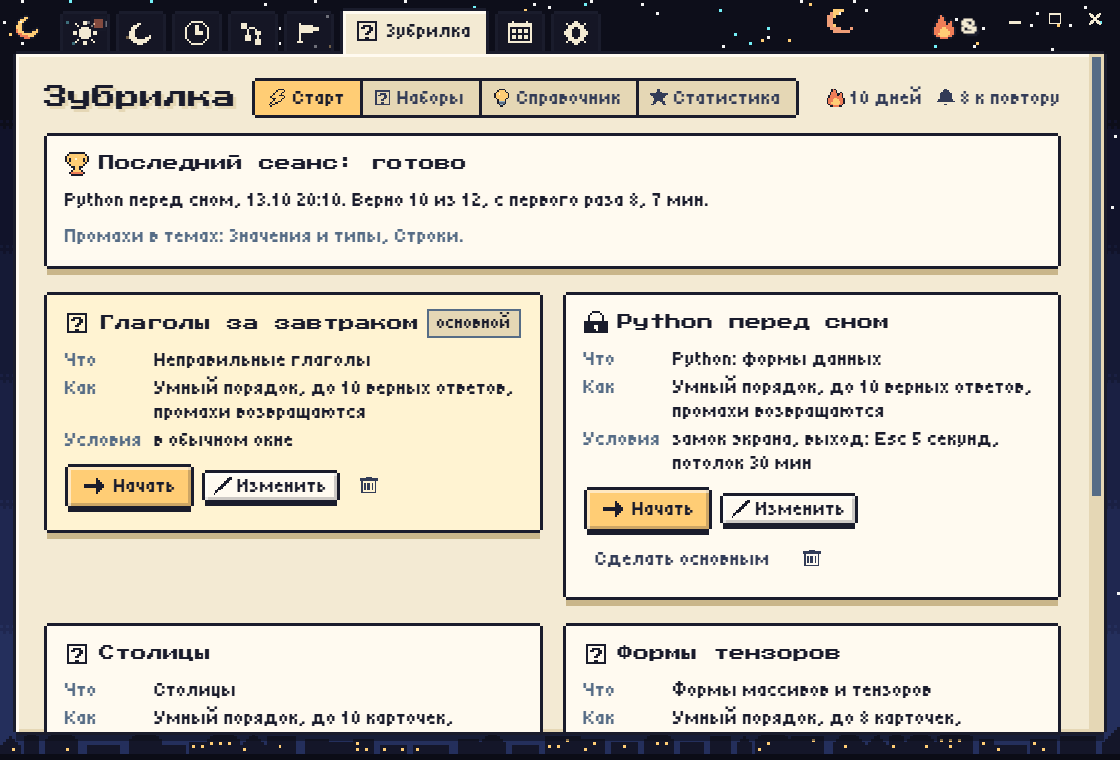
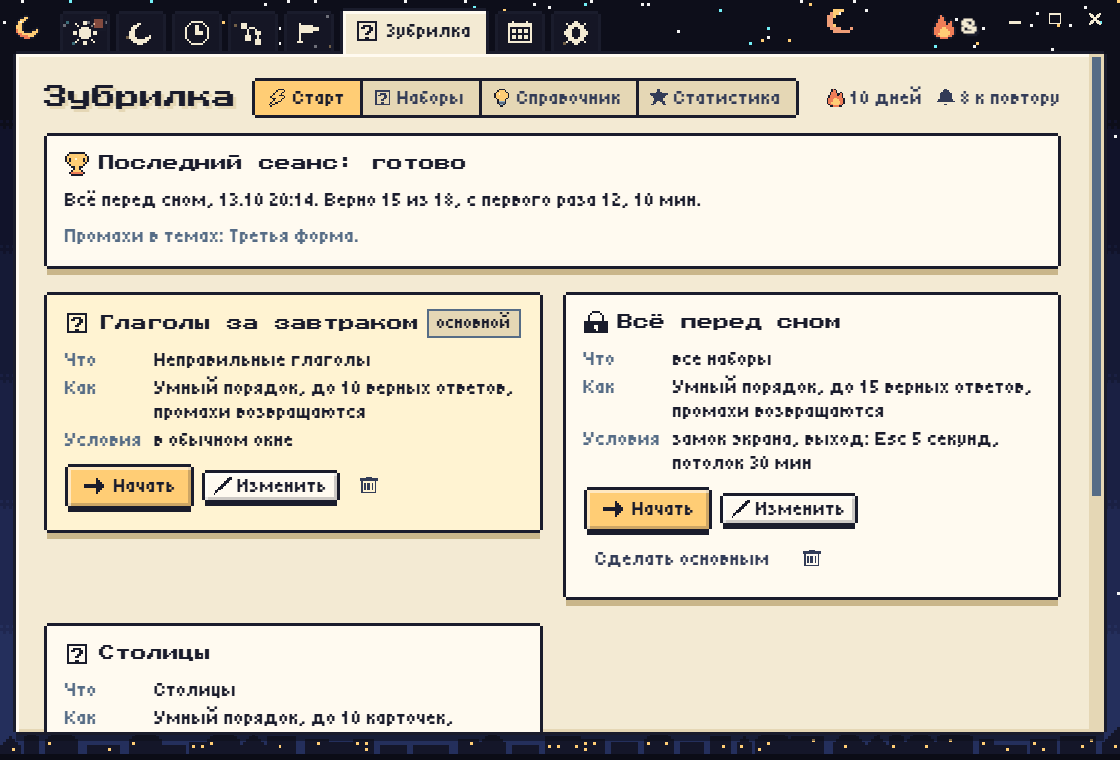
Update README without the built-in decks

diff --git a/README.md b/README.md
@@ -79,13 +79,11 @@ Download the installer from [Releases](https://github.com/IgorBerezkin/NextDay/r
 
 Если задачу нужно решать снова и снова с новыми данными, вместо набора подойдёт генератор: скрипт на JavaScript, который в каждом сеансе придумывает новые карточки. Генератор работает в песочнице без доступа к сети и к вашим данным и включается только после того, как вы посмотрите примеры его карточек. Готовые банки карточек в JSON загружаются кнопкой «DataEater».
 
-В справочнике лежат статьи к темам наборов. Во время сеанса он открывается кнопкой с лампочкой.
+#### Справочник
 
-#### Для программистов
+![Справочник](screenshots/drill-theory.png)
 
-![Разбор промаха](screenshots/drill-python.png)
-
-Встроенный набор учит читать код на Python без запуска: что лежит в переменной, какой у данных тип и форма, что изменится после прохода цикла и какую ошибку выдаст код. Ответы получены запуском кода. После промаха можно сравнить данные до и после строки, пройти код по шагам и прочитать правило. Генератор «Формы массивов и тензоров» каждый раз придумывает новые задачи про формы в NumPy и PyTorch. Структуры данных в справочнике и в разборе нарисованы картинками: ячейки списка с индексами, сетка матрицы, пары ключ и значение.
+В справочнике лежат статьи к наборам и их темам: правила, таблицы, схемы и графики. Статью можно написать самому или попросить ИИ. Во время сеанса справочник открывается кнопкой с лампочкой.
 
 ### ИИ через MCP
 
@@ -139,7 +137,7 @@ Next Day это локальный однопользовательский пл
 - День: план заморожен, пользователь только отмечает пункты и подпункты.
 - Ночь или следующее утро: пользователь собирает итоги на доске (заметки, картинки, сделанные задачи) и запечатывает день оценкой от 1 до 5 и коротким итогом. Запечатанные дни доступны только для чтения.
 - Цели: цель это карта тем. Стрелки (требования) показывают, что нужно освоить раньше чего, в каждой теме задачи от простых к сложным. Пока цель активна, программа сама планирует завтрашний день по карте и минутам цели в день. Пользователь видит карту на вкладке «Карта», а цель на вкладке «Цели».
-- Зубрилка: короткие карточки подряд, пока не выполнена цель сеанса. Пользователь выбирает, что зубрить (наборы и темы), как (порядок, размер сеанса, самопроверка) и в каких условиях (замок на весь экран или обычное окно, выход, потолок по времени). Встроенный набор `python` учит читать код на Python без запуска: что лежит в переменной, какая у неё форма, как она меняется в цикле, какую ошибку выдаст код. Его ответы и таблицы значений получены выполнением кода. Встроенный генератор `shapes` в каждом сеансе придумывает новые задачи о том, как меняется форма массивов NumPy и тензоров PyTorch после одной, двух или трёх операций. Набором может быть и генератор (плагин на JavaScript), и импортированный банк. Как сравнивать ответ (текст, число, выбор из вариантов, самопроверка, значения и формы Python), задают шаблоны проверки, которые пользователь хранит в группах и может дополнять.
+- Зубрилка: короткие карточки подряд, пока не выполнена цель сеанса. Пользователь выбирает, что зубрить (наборы и темы), как (порядок, размер сеанса, самопроверка) и в каких условиях (замок на весь экран или обычное окно, выход, потолок по времени). Своих наборов в программе нет: пользователь собирает их сам, загружает банки или ставит генераторы (плагины на JavaScript), сам или с вашей помощью. Как сравнивать ответ (текст, число, выбор из вариантов, самопроверка, значения и формы Python), задают шаблоны проверки, которые пользователь хранит в группах и может дополнять.
 
 #### 2. Подключение
 
@@ -245,14 +243,14 @@ Next Day это локальный однопользовательский пл
 Наборы бывают трёх видов, и все зубрятся одинаково, через режимы:
 
 - deck: карточки, которые написал пользователь или ИИ через `create_drill_deck`. Поля ниже.
-- bank: готовый банк, импортированный из JSON через `import_drill_bank` (DataEater). Каждая карточка это шаблон со множеством вариантов, которые отличаются только данными. Встроенный набор `python` тоже банк.
-- generator: плагин на JavaScript, который придумывает свежие варианты в начале каждого сеанса; ставится через `install_drill_generator`. Встроенный генератор `shapes` спрашивает, как меняется форма массивов NumPy и тензоров PyTorch после одной, двух или трёх операций, и даёт четыре варианта ответа.
+- bank: готовый банк, импортированный из JSON через `import_drill_bank` (DataEater). Каждая карточка это шаблон со множеством вариантов, которые отличаются только данными, например карточки с кодом, ответы к которым получены выполнением кода.
+- generator: плагин на JavaScript, который придумывает свежие варианты в начале каждого сеанса; ставится через `install_drill_generator`.
 
 После промаха карточка банка или генератора возвращается другим вариантом: та же задача с новыми данными.
 
 | Поле | Тип | Смысл |
 |---|---|---|
-| id | строка | `python` это встроенный набор; у наборов пользователя непрозрачные идентификаторы |
+| id | строка | Непрозрачный идентификатор |
 | title | строка | До 80 символов |
 | description | строка | До 1000 символов |
 | author | user или ai | |
@@ -297,7 +295,7 @@ Next Day это локальный однопользовательский пл
 
 ##### Банк
 
-`{title, description, gate, topics, cards}`: формат набора `python` и `import_drill_bank`.
+`{id, title, description, gate, topics, cards}`: формат `import_drill_bank`. `id` необязателен: если он свободен (латинские буквы, цифры, `-` и `_`, до 40 символов), банк его сохранит, и прогресс переживёт повторный импорт после удаления банка.
 
 - `topics`: до 100 `{id, title, theory}`. `theory` это Markdown в диалекте программы (смотрите «Статья справочника»), он становится статьёй темы только для чтения. Темы без карточек отбрасываются.
 - `cards`: до 2000 `{id, topic, kind, rule, check, variants}`. `id` до 60 символов и не повторяется; `topic` это идентификатор или название темы; `rule` (до 2000 символов) показывается после промаха; `check` может настроить сравнение (caseSensitive, ignoreSpaces, tolerance, strictTypes, hint), а режим всегда берётся из `kind`.
@@ -342,6 +340,7 @@ const plugin = {
 };
 ```
 
+- `plugin.id` необязателен: если он свободен, установленный генератор его сохранит, и прогресс переживёт переустановку.
 - Шаблон карточки это `{id, topic, kind, rule, check, make}`. `id` до 60 символов и не должен меняться: по нему хранится прогресс. `kind` берётся из таблицы банка, по умолчанию choice. `make(r)` возвращает один вариант с полями варианта банка.
 - `r` это источник случайных чисел с зерном: `r.random()`, `r.int(a, b)` с обоими концами, `r.pick(list)`, `r.chance(p)`, `r.shuffle(list)` (возвращает копию), `r.sample(list, k)`. Используйте его вместо Math.random. Числа в ответах и вариантах становятся строками.
 - В начале сеанса программа вызывает `make` до 12 раз на шаблон, убирает повторы и проверяет каждый вариант как вариант банка. Весь прогон должен уложиться в 6 секунд.
@@ -357,7 +356,7 @@ Gate: `{enabled, percent, window}`, по умолчанию 85 и 20. Перва
 |---|---|---|
 | id | строка | |
 | name | строка | До 60 символов |
-| sources | `[{deck, topics}]` | Что зубрить; пустой `topics` значит открытые темы набора |
+| sources | `[{deck, topics}]` | Что зубрить; пустой список значит все наборы, пустой `topics` значит открытые темы набора |
 | order | smart, random, sequence | smart: интервальное повторение по Лейтнеру (ниже); sequence продолжает с того места, где остановился прошлый сеанс |
 | goal | correct, cards, minutes | Сеанс заканчивается после `amount` верных ответов, `amount` ответов или `amount` минут |
 | amount | целое | 1-200; для минут 1-180 |
@@ -378,13 +377,13 @@ Gate: `{enabled, percent, window}`, по умолчанию 85 и 20. Перва
 
 | Поле | Тип | Смысл |
 |---|---|---|
-| id | строка | `{deck}-{topic}` у встроенных статей банков и генераторов, например `python-t01` |
+| id | строка | `{deck}-{topic}` у статей, которые пришли с банками и генераторами |
 | deck | строка | Идентификатор набора |
 | topic | строка | Идентификатор темы, пусто для всего набора |
 | title | строка | До 120 символов |
 | body | строка | Markdown, до 100000 символов |
 | author | user или ai | |
-| builtin | bool | Встроенные статьи только для чтения |
+| builtin | bool | Статья пришла с банком или генератором и доступна только для чтения |
 
 Текст пишется в диалекте Markdown программы: заголовки от `#` до `###`, абзацы, `**жирный**`, `*курсив*`, `` `код` ``, ссылки, списки (`- ` и `1. `, вложенные через два пробела), цитаты `> `, таблицы со строкой `|---|`, линии `---` и блоки кода между тройными обратными кавычками. Особые блоки:
 
@@ -495,18 +494,17 @@ Gate: `{enabled, percent, window}`, по умолчанию 85 и 20. Перва
 
 ##### get_drill (чтение)
 
-Без аргументов. Возвращает `{presets, checks, defaultPreset, python, decks, streak, bestStreak, today, due, weak, sessions}`.
+Без аргументов. Возвращает `{presets, checks, defaultPreset, decks, streak, bestStreak, today, due, weak, sessions}`.
 
 - `checks`: шаблоны проверки в том порядке, в каком их видит пользователь, `{id, group, name, check}`.
-- `python`: настройки встроенного набора, `{gate, strictTypes}`.
-- `decks`: `[{id, title, description, builtin, kind, enabled, author, cards, variants, check, gate, topics, updatedAt}]`; `kind` это deck, bank или generator, `cards` у генератора считает его шаблоны карточек, `variants` считает готовые варианты банка, `enabled` равно false у генератора, который ждёт проверки пользователем. `topics` это `{id, title, cards, open, answered, recent, recentRight, seen, due, boxes}`. `recentRight` из `recent` это точность в окне порога; `boxes` считает показанные карточки по коробкам Лейтнера.
+- `decks`: `[{id, title, description, kind, enabled, author, cards, variants, check, gate, topics, updatedAt}]`; `kind` это deck, bank или generator, `cards` у генератора считает его шаблоны карточек, `variants` считает готовые варианты банка, `enabled` равно false у генератора, который ждёт проверки пользователем. `topics` это `{id, title, cards, open, answered, recent, recentRight, seen, due, boxes}`. `recentRight` из `recent` это точность в окне порога; `boxes` считает показанные карточки по коробкам Лейтнера.
 - `today`: `{sessions, answers, correct}`. `due`: карточки к повтору в основном режиме.
 - `weak`: карточки с наибольшим числом промахов `{deck, card, topic, prompt, code, answer, rule, right, wrong, level, lastWrong}`. В `lastWrong` последние неверные ответы пользователя, лучшая подсказка, где ошибка в понимании.
 - `sessions`: последние 40, сначала новые, `{name, startedAt, endedAt, outcome, screen, goal, amount, answered, correct, firstTry, wrong, seconds, misses}`.
 
 ##### get_drill_deck (чтение)
 
-`deckId`. Набор пользователя со всеми карточками. Генератор возвращает `{kind: generator, title, description, builtin, author, enabled, topics, templates, code}`. Банк, в том числе `python`, возвращает `{kind: bank, topics, cards}`, где каждая карточка это шаблон `{id, topic, kind, rule, variants, sample}`; kind бывает value (ввести литерал), pick (выбрать один из четырёх литералов: верный и три типичные ошибки в структуре), shape (ввести форму), step (значение после k-го прохода цикла), error (код падает, ввести имя исключения) или output (что покажет print). После промаха пользователь получает тот же шаблон с новыми данными.
+`deckId`. Набор пользователя со всеми карточками. Генератор возвращает `{kind: generator, title, description, author, enabled, topics, templates, code}`. Банк возвращает `{kind: bank, topics, cards}`, где каждая карточка это шаблон `{id, topic, kind, rule, variants, sample}`; kind бывает value (ввести литерал), pick (выбрать один из четырёх литералов: верный и три типичные ошибки в структуре), shape (ввести форму), step (значение после k-го прохода цикла), error (код падает, ввести имя исключения) или output (что покажет print). После промаха пользователь получает тот же шаблон с новыми данными.
 
 ##### create_drill_deck (запись)
 
@@ -518,19 +516,19 @@ Gate: `{enabled, percent, window}`, по умолчанию 85 и 20. Перва
 
 ##### edit_drill_deck (запись)
 
-`deckId` и любые из `title`, `description`, `check` или `template`, `gate`, `upsert` (карточки; карточка с существующим `id` заменяется, без `id` добавляется) и `remove` (идентификаторы карточек). Встроенный набор менять нельзя. Прогресс оставшихся карточек сохраняется. Возвращает набор.
+`deckId` и любые из `title`, `description`, `check` или `template`, `gate`, `upsert` (карточки; карточка с существующим `id` заменяется, без `id` добавляется) и `remove` (идентификаторы карточек). Банки и генераторы меняются через `import_drill_bank` и `install_drill_generator`. Прогресс оставшихся карточек сохраняется. Возвращает набор.
 
 ##### get_drill_theory (чтение)
 
-Необязательный `deckId`; вместе с ним `topic` (идентификатор темы) сужает список до этой темы и статей обо всём наборе. Возвращает `{articles}`: `[{id, deck, topic, title, body, author, builtin, createdAt, updatedAt}]`. Статьи, которые пришли с темами банков и генераторов, в том числе `python` и `shapes`, имеют `builtin: true`.
+Необязательный `deckId`; вместе с ним `topic` (идентификатор темы) сужает список до этой темы и статей обо всём наборе. Возвращает `{articles}`: `[{id, deck, topic, title, body, author, builtin, createdAt, updatedAt}]`. Статьи, которые пришли с темами банков и генераторов, имеют `builtin: true`.
 
 ##### save_drill_theory (запись)
 
-`deckId`, `title`, `body`, необязательные `topic` (идентификатор или название, пусто для всего набора) и `id` (заменяет эту статью). Создаёт статью с `author: ai`. Встроенные статьи менять нельзя; пишите свои рядом с ними. Возвращает статью.
+`deckId`, `title`, `body`, необязательные `topic` (идентификатор или название, пусто для всего набора) и `id` (заменяет эту статью). Создаёт статью с `author: ai`. Статьи банков и генераторов менять нельзя; пишите свои рядом с ними. Возвращает статью.
 
 ##### install_drill_generator (запись)
 
-`title`, `code`, необязательные `description` и `id` (заменяет код этого генератора; встроенные менять нельзя). Сохраняет генератор выключенным и возвращает `{generator: {id, title, enabled}, note}`. Программа запускает скрипт только после того, как пользователь проверит и включит его; потом добавьте его в режим.
+`title`, `code`, необязательные `description` и `id` (заменяет код этого генератора или, если свободен, становится идентификатором нового). Сохраняет генератор выключенным и возвращает `{generator: {id, title, enabled}, note}`. Программа запускает скрипт только после того, как пользователь проверит и включит его; потом добавьте его в режим.
 
 ##### import_drill_bank (запись)
 
@@ -546,7 +544,7 @@ Gate: `{enabled, percent, window}`, по умолчанию 85 и 20. Перва
 
 ##### save_drill_preset (запись)
 
-Любые поля режима и `makeDefault`. Без `id` режим создаётся из значений по умолчанию (10 верных ответов, умный порядок, повтор промахов, замок с выходом по Esc и потолком 30 минут); с `id` меняются только переданные поля. Возвращает режим.
+Любые поля режима и `makeDefault`. Без `id` режим создаётся из значений по умолчанию (все наборы, 10 верных ответов, умный порядок, повтор промахов, замок с выходом по Esc и потолком 30 минут); с `id` меняются только переданные поля. Возвращает режим.
 
 - Сеансы запускает только пользователь, в программе.
 - Никогда не включайте `screen: lock` и не ставьте `escape: none`, если пользователь сам не попросил об этом своими словами.
@@ -737,13 +735,11 @@ You build your own decks right in the app: a question, an answer, other accepted
 
 When a task has to be solved again and again with new data, a generator works better than a deck: a JavaScript script that makes new cards for every session. A generator runs in a sandbox without access to the network and to your data, and it is turned on only after you look at its sample cards. Ready banks of cards in JSON are loaded with the DataEater button.
 
-The reference holds articles for the topics of the decks. During a session it opens with the lightbulb button.
+#### Reference
 
-#### For programmers
+![Reference](screenshots/en/drill-theory.png)
 
-![Miss review](screenshots/en/drill-python.png)
-
-The built-in deck teaches reading Python code without running it: what a variable holds, which type and shape the data has, what changes after a pass of a loop and which error the code raises. The answers come from running the code. After a miss you can compare the data before and after a line, step through the code and read the rule. The generator for array and tensor shapes makes new tasks about shapes in NumPy and PyTorch every time. Data structures in the reference and in the miss review are drawn as pictures: list cells with indexes, a matrix grid, key and value pairs.
+The reference holds articles for decks and their topics: rules, tables, diagrams and charts. Write an article yourself or ask an AI. During a session it opens with the lightbulb button.
 
 ### AI over MCP
 
@@ -797,7 +793,7 @@ The rhythm of the app:
 - Day: the plan is frozen; the user only ticks checklist items and sub-items.
 - Night or next morning: the user collects results on a board (notes, images, finished tasks) and seals the day with a rating 1-5 and an optional short summary. Sealed days are read-only history.
 - Goals: a goal is a map of topics. Arrows (prerequisites) say what must be mastered before what; every topic holds tasks ranked from simple to hard. While a goal is active, the app plans tomorrow by itself from the map and the goal's daily minutes. The user sees the map on the Map tab and the goal on the Goals tab.
-- Drill trainer (tab Drill): short cards answered in a row until a session goal is met. The user chooses what to drill (decks and topics), how (order, session size, self-check) and under which conditions (a full-screen lock or a normal window, an escape, a time ceiling). The built-in deck `python` teaches reading Python code without running it: what a variable holds, its shape, how it changes in a loop, which error the code raises. Its answers and value tables come from executing the code. The built-in generator `shapes` makes new tasks every session about how NumPy and PyTorch shapes change after one to three operations. Decks can also be generators (JavaScript plugins) or imported banks. How answers are compared (text, a number, a choice of options, self-check, Python values and shapes) comes from check templates that the user keeps in groups and can extend.
+- Drill trainer (tab Drill): short cards answered in a row until a session goal is met. The user chooses what to drill (decks and topics), how (order, session size, self-check) and under which conditions (a full-screen lock or a normal window, an escape, a time ceiling). The app has no decks of its own: the user builds them, imports banks or installs generators (JavaScript plugins), by hand or with your help. How answers are compared (text, a number, a choice of options, self-check, Python values and shapes) comes from check templates that the user keeps in groups and can extend.
 
 #### 2. Connecting
 
@@ -903,14 +899,14 @@ A checklist holds at most 40 items and is always sorted by start hour counted fr
 Decks come in three kinds, all drilled the same way through presets:
 
 - deck: cards written by hand or by AI with `create_drill_deck`. The fields are below.
-- bank: a prepared bank imported from JSON with `import_drill_bank` (DataEater). Every card is a template with many variants that differ only in data. The built-in deck `python` is a bank.
-- generator: a JavaScript plugin that makes fresh variants at the start of every session, installed with `install_drill_generator`. The built-in generator `shapes` asks how the shape of NumPy arrays and PyTorch tensors changes after one to three operations, with four options.
+- bank: a prepared bank imported from JSON with `import_drill_bank` (DataEater). Every card is a template with many variants that differ only in data, for example code cards whose answers come from executing the code.
+- generator: a JavaScript plugin that makes fresh variants at the start of every session, installed with `install_drill_generator`.
 
 After a miss, a card of a bank or a generator comes back with another variant: the same task with new data.
 
 | Field | Type | Meaning |
 |---|---|---|
-| id | string | `python` is the built-in deck; user decks have opaque ids |
+| id | string | Opaque |
 | title | string | Up to 80 chars |
 | description | string | Up to 1000 chars |
 | author | user or ai | |
@@ -955,7 +951,7 @@ A deck or a card copies the check of its template. Changing or deleting the temp
 
 ##### Bank
 
-`{title, description, gate, topics, cards}`: the format of `python` and of `import_drill_bank`.
+`{id, title, description, gate, topics, cards}`: the format of `import_drill_bank`. `id` is optional: when it is free (letters, digits, `-` and `_`, up to 40 chars) the bank keeps it, so progress survives a fresh import after the bank was deleted.
 
 - `topics`: up to 100 `{id, title, theory}`. `theory` is Markdown in the app's dialect (see Theory article) and becomes a read-only article of the topic. Topics without cards are dropped.
 - `cards`: up to 2000 `{id, topic, kind, rule, check, variants}`. `id` is up to 60 chars and unique; `topic` is a topic id or title; `rule` (up to 2000 chars) is shown after a miss; `check` may tune the comparison (caseSensitive, ignoreSpaces, tolerance, strictTypes, hint) while its mode always comes from `kind`.
@@ -1000,6 +996,7 @@ const plugin = {
 };
 ```
 
+- `plugin.id` is optional: when it is free, the installed generator keeps it, so progress survives a reinstall.
 - A template is `{id, topic, kind, rule, check, make}`. `id` is up to 60 chars and must stay stable: progress is stored by it. `kind` is one from the Bank table, choice by default. `make(r)` returns one variant with the fields of a bank variant.
 - `r` is a seeded random source: `r.random()`, `r.int(a, b)` with both ends included, `r.pick(list)`, `r.chance(p)`, `r.shuffle(list)` (returns a copy), `r.sample(list, k)`. Use it instead of Math.random. Numbers in answers and choices become strings.
 - At the start of a session the app calls `make` up to 12 times per template, drops repeats and checks every variant like a bank variant. The whole run must finish within 6 seconds.
@@ -1015,7 +1012,7 @@ Gate: `{enabled, percent, window}`, default 85 and 20. The first topic is always
 |---|---|---|
 | id | string | |
 | name | string | Up to 60 chars |
-| sources | `[{deck, topics}]` | What to drill; empty `topics` means the deck's open topics |
+| sources | `[{deck, topics}]` | What to drill; an empty list means all decks, empty `topics` means the deck's open topics |
 | order | smart, random, sequence | smart: Leitner spaced repetition (below); sequence continues where the last session stopped |
 | goal | correct, cards, minutes | The session ends after `amount` right answers, `amount` answers, or `amount` minutes |
 | amount | integer | 1-200; for minutes 1-180 |
@@ -1036,13 +1033,13 @@ Gate: `{enabled, percent, window}`, default 85 and 20. The first topic is always
 
 | Field | Type | Meaning |
 |---|---|---|
-| id | string | `{deck}-{topic}` for the built-in articles of banks and generators, such as `python-t01` |
+| id | string | `{deck}-{topic}` for the articles that come with banks and generators |
 | deck | string | Deck id |
 | topic | string | Topic id, empty for the whole deck |
 | title | string | Up to 120 chars |
 | body | string | Markdown, up to 100000 chars |
 | author | user or ai | |
-| builtin | bool | Built-in articles are read-only |
+| builtin | bool | The article comes with a bank or a generator and is read-only |
 
 The body uses the app's Markdown dialect: headings `#` to `###`, paragraphs, `**bold**`, `*italic*`, `` `code` ``, links, lists (`- ` and `1. `, nested by two spaces), quotes `> `, tables with a `|---|` row, `---` rules and fenced code blocks. Special fenced blocks:
 
@@ -1153,18 +1150,17 @@ Required: `title`, `outcome`, `topics`. Optional: `note`, `deadline`, `minutesPe
 
 ##### get_drill (read)
 
-No arguments. Returns `{presets, checks, defaultPreset, python, decks, streak, bestStreak, today, due, weak, sessions}`.
+No arguments. Returns `{presets, checks, defaultPreset, decks, streak, bestStreak, today, due, weak, sessions}`.
 
 - `checks`: the check templates in the order the user sees them, `{id, group, name, check}`.
-- `python`: settings of the built-in deck, `{gate, strictTypes}`.
-- `decks`: `[{id, title, description, builtin, kind, enabled, author, cards, variants, check, gate, topics, updatedAt}]`; `kind` is deck, bank or generator, `cards` of a generator counts its templates, `variants` counts the prepared variants of a bank, `enabled` is false for a generator waiting for the user's check. `topics` are `{id, title, cards, open, answered, recent, recentRight, seen, due, boxes}`. `recentRight` of `recent` is the accuracy over the gate window; `boxes` counts seen cards per Leitner box.
+- `decks`: `[{id, title, description, kind, enabled, author, cards, variants, check, gate, topics, updatedAt}]`; `kind` is deck, bank or generator, `cards` of a generator counts its templates, `variants` counts the prepared variants of a bank, `enabled` is false for a generator waiting for the user's check. `topics` are `{id, title, cards, open, answered, recent, recentRight, seen, due, boxes}`. `recentRight` of `recent` is the accuracy over the gate window; `boxes` counts seen cards per Leitner box.
 - `today`: `{sessions, answers, correct}`. `due`: cards due in the default preset.
 - `weak`: the most missed cards `{deck, card, topic, prompt, code, answer, rule, right, wrong, level, lastWrong}`. `lastWrong` holds the user's last wrong answers, the best evidence of a misconception.
 - `sessions`: the last 40, newest first, `{name, startedAt, endedAt, outcome, screen, goal, amount, answered, correct, firstTry, wrong, seconds, misses}`.
 
 ##### get_drill_deck (read)
 
-`deckId`. A user deck with all its cards. A generator returns `{kind: generator, title, description, builtin, author, enabled, topics, templates, code}`. A bank, `python` included, returns `{kind: bank, topics, cards}` where each card is a template `{id, topic, kind, rule, variants, sample}`; kind is value (type a literal), pick (choose one of four literals: the right one and three typical structural mistakes), shape (type the shape), step (the value after pass k of a loop), error (the code fails, type the exception name) or output (what print shows). After a miss the user gets the same template with new data.
+`deckId`. A user deck with all its cards. A generator returns `{kind: generator, title, description, author, enabled, topics, templates, code}`. A bank returns `{kind: bank, topics, cards}` where each card is a template `{id, topic, kind, rule, variants, sample}`; kind is value (type a literal), pick (choose one of four literals: the right one and three typical structural mistakes), shape (type the shape), step (the value after pass k of a loop), error (the code fails, type the exception name) or output (what print shows). After a miss the user gets the same template with new data.
 
 ##### create_drill_deck (write)
 
@@ -1176,19 +1172,19 @@ Required: `title`, `cards`. Optional: `description`, `check` or `template`, `gat
 
 ##### edit_drill_deck (write)
 
-`deckId` plus any of `title`, `description`, `check` or `template`, `gate`, `upsert` (cards; a card with an existing `id` is replaced, one without `id` is added) and `remove` (card ids). The built-in deck can not be edited. Progress of kept cards stays. Returns the deck.
+`deckId` plus any of `title`, `description`, `check` or `template`, `gate`, `upsert` (cards; a card with an existing `id` is replaced, one without `id` is added) and `remove` (card ids). Banks and generators are changed by `import_drill_bank` and `install_drill_generator`. Progress of kept cards stays. Returns the deck.
 
 ##### get_drill_theory (read)
 
-Optional `deckId`; with it, `topic` (a topic id) narrows the list to that topic plus the articles about the whole deck. Returns `{articles}`: `[{id, deck, topic, title, body, author, builtin, createdAt, updatedAt}]`. Articles that come with the topics of banks and generators, `python` and `shapes` included, have `builtin: true`.
+Optional `deckId`; with it, `topic` (a topic id) narrows the list to that topic plus the articles about the whole deck. Returns `{articles}`: `[{id, deck, topic, title, body, author, builtin, createdAt, updatedAt}]`. Articles that come with the topics of banks and generators have `builtin: true`.
 
 ##### save_drill_theory (write)
 
-`deckId`, `title`, `body`, optional `topic` (id or title, empty for the whole deck) and `id` (replaces that article). Creates the article with `author: ai`. Built-in articles can not be changed; write your own next to them. Returns the article.
+`deckId`, `title`, `body`, optional `topic` (id or title, empty for the whole deck) and `id` (replaces that article). Creates the article with `author: ai`. Articles of banks and generators can not be changed; write your own next to them. Returns the article.
 
 ##### install_drill_generator (write)
 
-`title`, `code`, optional `description` and `id` (replaces the code of that generator; built-in ones can not be changed). Saves the generator switched off and returns `{generator: {id, title, enabled}, note}`. The app runs the script only after the user checks and enables it; then add it to a preset.
+`title`, `code`, optional `description` and `id` (replaces the code of that generator, or becomes the id of a new one when it is free). Saves the generator switched off and returns `{generator: {id, title, enabled}, note}`. The app runs the script only after the user checks and enables it; then add it to a preset.
 
 ##### import_drill_bank (write)
 
@@ -1204,7 +1200,7 @@ Optional `deckId`; with it, `topic` (a topic id) narrows the list to that topic 
 
 ##### save_drill_preset (write)
 
-Any preset fields plus `makeDefault`. Without `id` a preset is created from the defaults (10 right answers, smart order, retry, lock with the Esc escape and a 30-minute ceiling); with `id` only the given fields change. Returns the preset.
+Any preset fields plus `makeDefault`. Without `id` a preset is created from the defaults (all decks, 10 right answers, smart order, retry, lock with the Esc escape and a 30-minute ceiling); with `id` only the given fields change. Returns the preset.
 
 - Sessions are started only by the user, in the app.
 - Never turn on `screen: lock` or set `escape: none` unless the user asked for it in their own words.
